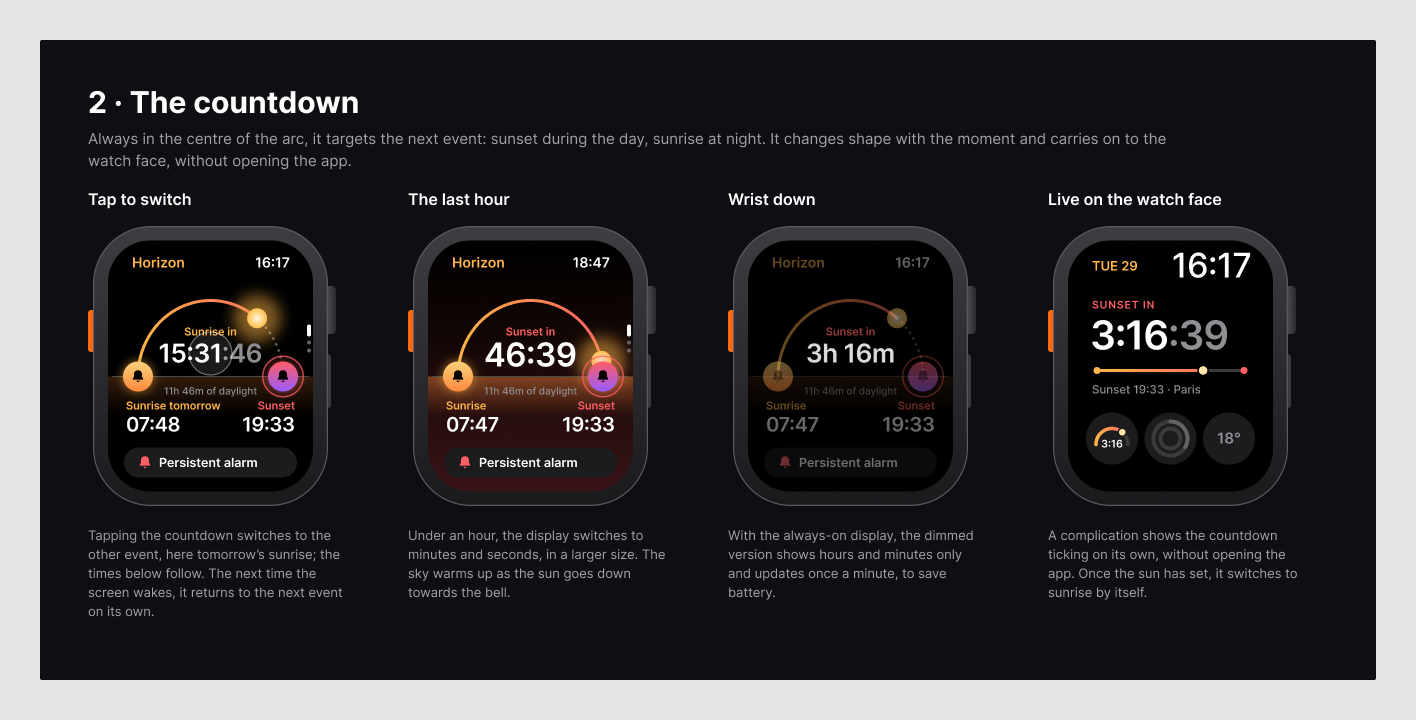
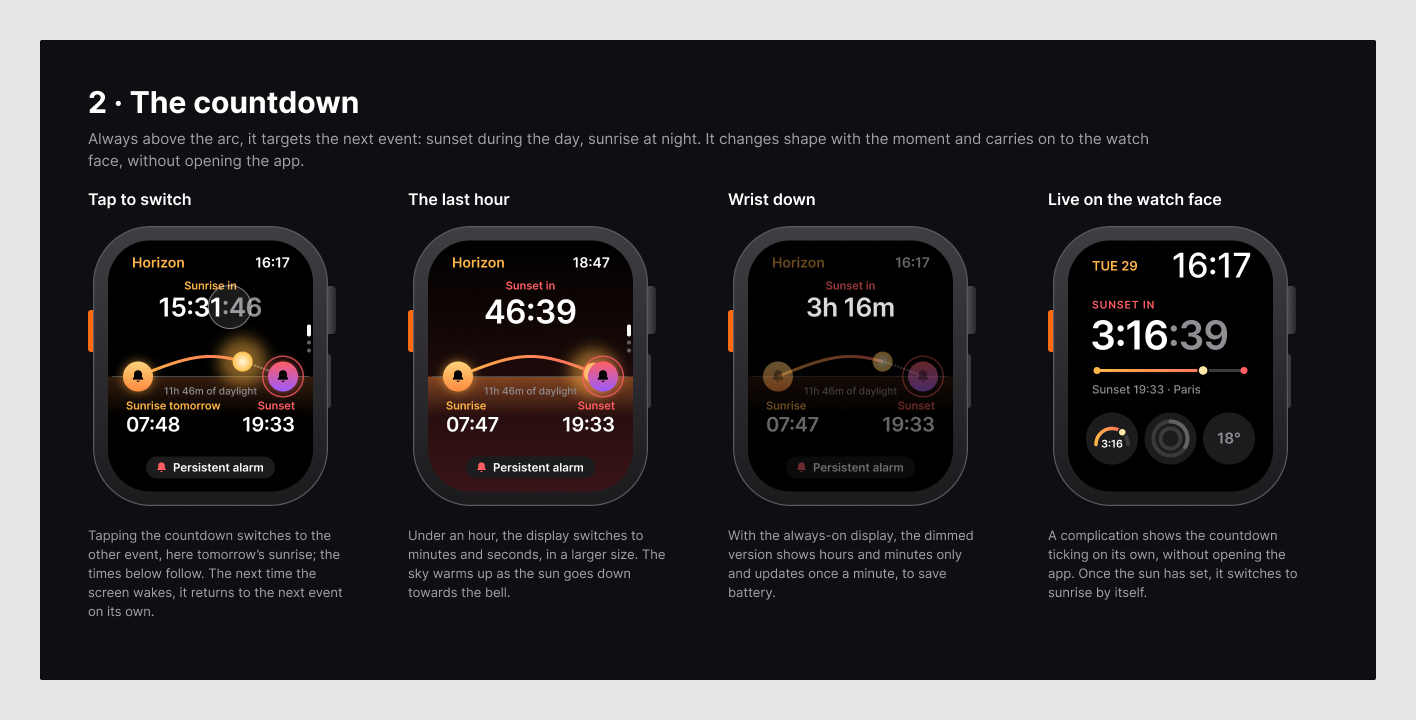
Update the mockups to the real sun path and the compact pill
Re-exported from the English page of the design file, which now shows
the arc as the sun's real path, the moon moving through the night, the
countdown above the arc and the compact pill and toast. Images 4 and 5
are unchanged: they do not show the arc.

diff --git a/docs/SPEC.md b/docs/SPEC.md
@@ -417,6 +417,6 @@ Points the first build (October 2026) settled or had to decide. The simulator wa
 8. **Polar day or night.** The bottom pill is hidden while alarms are on but nothing can be planned.
 9. **Seen in the simulator:** every screen of section 5 in English, plus the main screen in German, Dutch, Portuguese, Japanese and Arabic; the Smart Stack card and its tap; 59 pending notifications with the refill reminder. **Not yet seen anywhere:** haptics, the alarm session ringing in the background, the system alert's Stop and Open, Focus behaviour, corner, circular and inline complications on a watch face, the Control Center toggle, the Action button shortcut. They are the checklist of section 11.
 10. **Free Apple accounts.** A Personal Team cannot sign the Time Sensitive Notifications capability. `HorizonApp/HorizonPersonalTeam.entitlements` is a variant without it, chosen in `Configuration/Local.xcconfig`, for installing on one's own watch. In that build notifications are delivered at the normal level and a Focus can silence them. The store build keeps the capability.
-11. **The arc (5.1), revised in October 2026 after a week on a real Ultra 2.** The first build drew a half ellipse and placed the sun by angle, so its motion was not proportional to time, and the moon sat at the summit all night. The arc is now `SunPath`: the real altitude against linear time, checked against astral in `docs/fixtures/sun-altitudes.csv`. The countdown moved above the arc, and the bottom pill shrank: the full-width one was cut by the Ultra 2's corners. The mockup images in `docs/mockup/` still show the first design until the design file is updated.
+11. **The arc (5.1), revised in October 2026 after a week on a real Ultra 2.** The first build drew a half ellipse and placed the sun by angle, so its motion was not proportional to time, and the moon sat at the summit all night. The arc is now `SunPath`: the real altitude against linear time, checked against astral in `docs/fixtures/sun-altitudes.csv`. The countdown moved above the arc, and the bottom pill shrank: the full-width one was cut by the Ultra 2's corners. The design file (French and English pages) and the mockup images in `docs/mockup/` were updated to match.
 12. **watchOS 27.** Building with the watchOS 27 SDK, and installing on a watch running watchOS 27, need Xcode 27, which runs only on Apple silicon Macs. Xcode 26.5 cannot mount the watchOS 27 developer disk image. The app built with the watchOS 26 SDK needs no change to run on watchOS 27.
 
